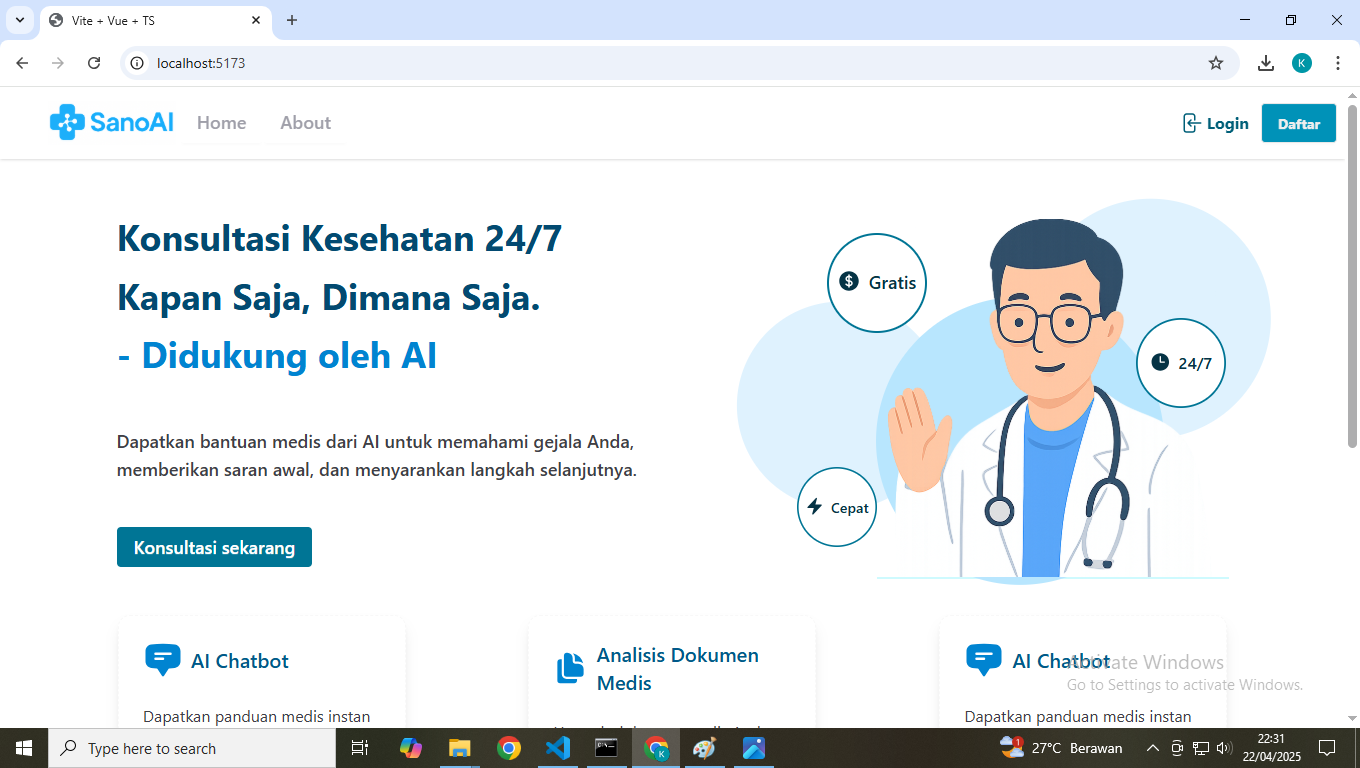
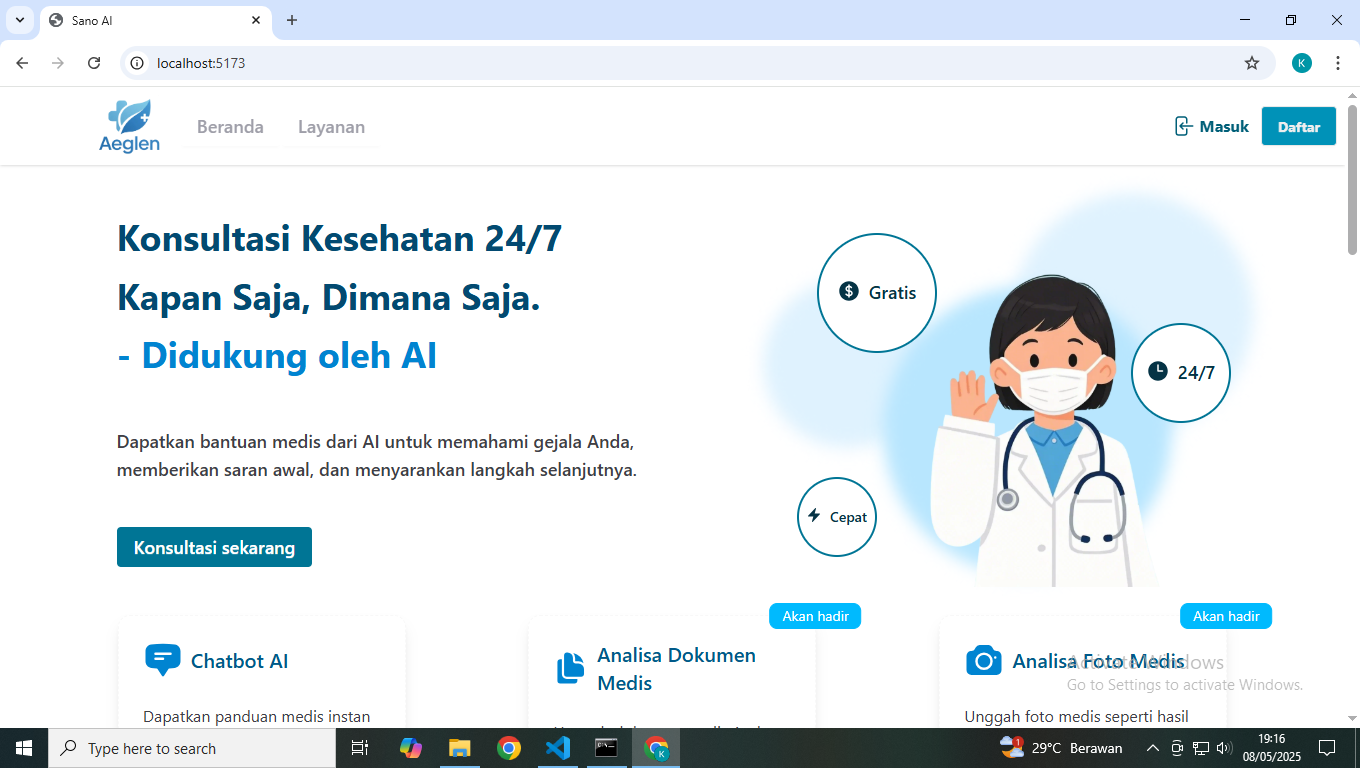
add services.png to readme.md

diff --git a/src/components/services/Carousel.vue b/src/components/services/Carousel.vue
@@ -38,12 +38,10 @@ onMounted(() => {
     <div class="relative flex justify-center mt-20">
         <motion.div 
             :animate="{ opacity: showLeftGradient ? [0, 1] : [1, 0] }"
-            :transition="{ duration: 0.4 }"
             v-if="showLeftGradient" 
             class="absolute left-0 w-[12%] h-full bg-gradient-to-r from-base-100 via-base-100 to-transparent"></motion.div>
         <motion.div 
             :animate="{ opacity: showRightGradient ? [0, 1] : [1, 0] }"
-            :transition="{ duration: 0.4 }"
             v-if="showRightGradient" 
             class="absolute right-0 w-[12%] h-full bg-gradient-to-l from-base-100 via-base-100 to-transparent"></motion.div>
 

diff --git a/src/App.vue b/src/App.vue
@@ -1,13 +1,13 @@
 <script setup lang="ts">
-// import LandingPage from './components/landing-page/LandingPage.vue';
-import Services from './components/services/Services.vue';
+import LandingPage from './components/landing-page/LandingPage.vue';
+// import Services from './components/services/Services.vue';
 import Navbar from './components/Navbar.vue';
 // import Footer from './components/Footer.vue';
 </script>
 
 <template>
   <Navbar />
-  <Services />
-  <!-- <LandingPage /> -->
+  <!-- <Services /> -->
+  <LandingPage />
   <Footer></Footer>
 </template>

diff --git a/README.md b/README.md
@@ -1,2 +1,3 @@
 # Screenshot
 ![App Screenshot](./public/landingpage.png)
+![App Screenshot](./public/services.png)
